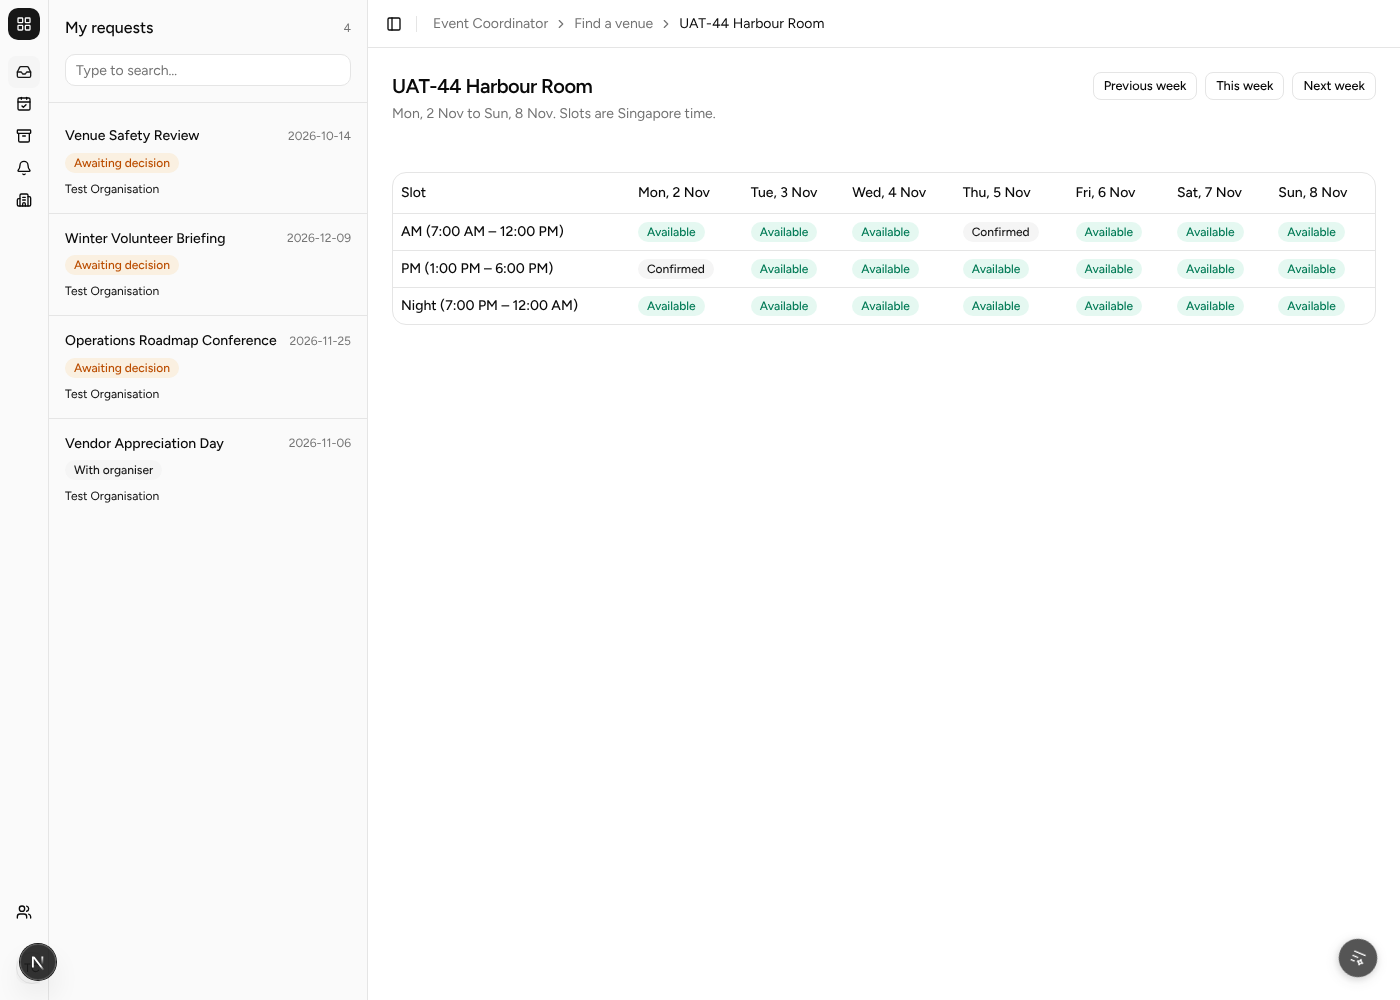
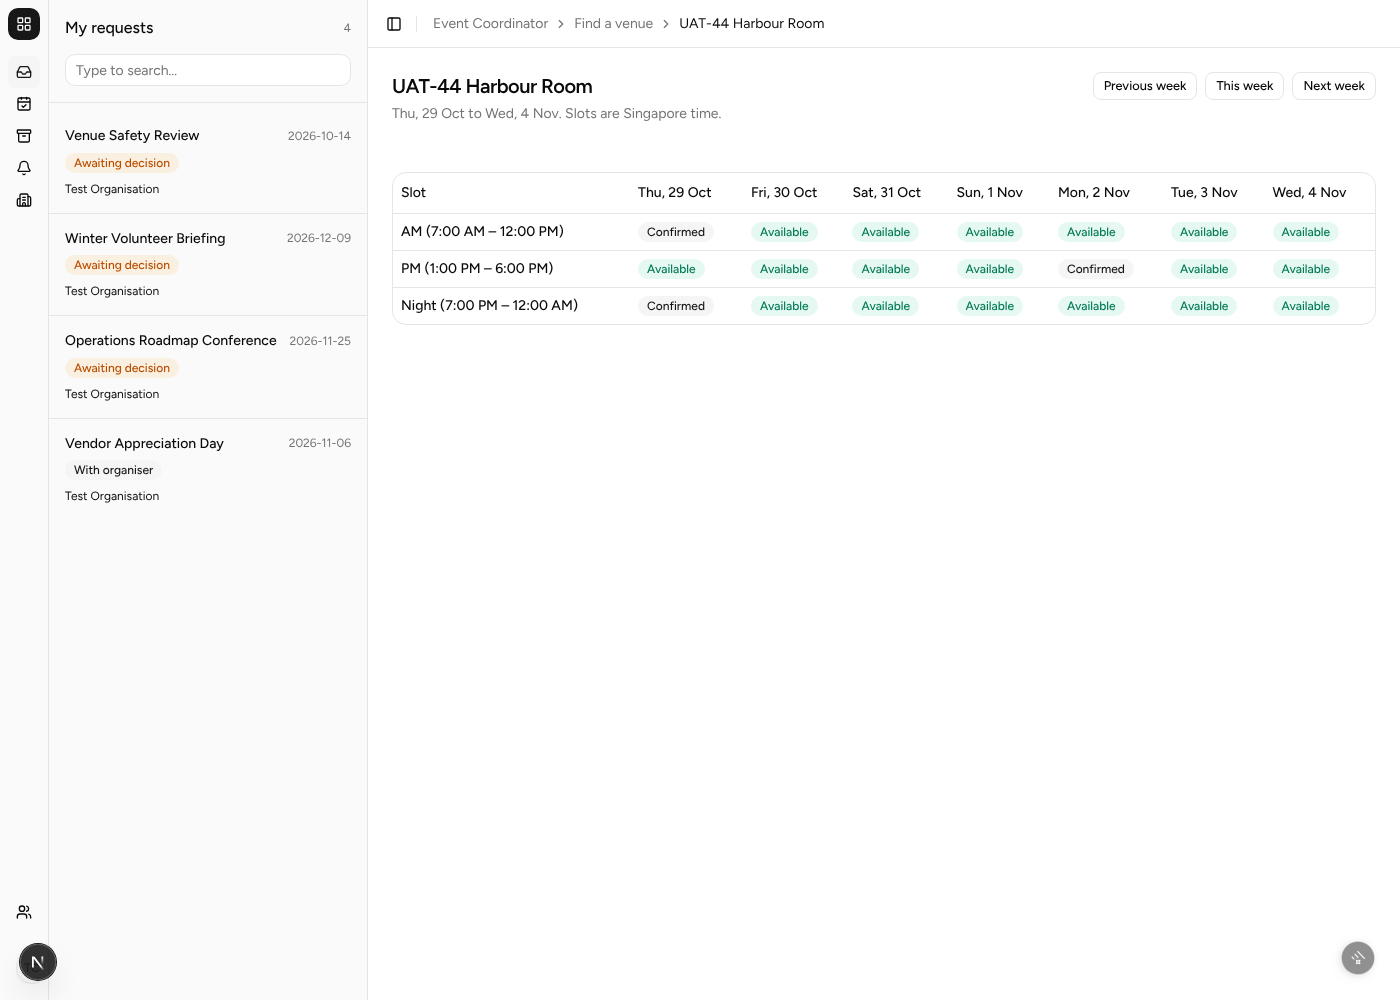
docs(testing): seed the venue booking cancel cases (SPM-20)
The cases borrowed the venue hold fixture and patched a booking by
hand. seed-booking-cancel gives them their own five bookings at the
UAT-44 venues, whose slots the calendar can show as Available, with
verify and teardown like the other seeds. Re-ran the five cases on it.

Claude-Session: https://claude.ai/code/session_01ErKH7SckcPqLq4ja4VJ7Qt

diff --git a/docs/testing/VENUE_BOOKING_CANCEL_MANUAL_TESTS.md b/docs/testing/VENUE_BOOKING_CANCEL_MANUAL_TESTS.md
@@ -41,37 +41,40 @@ Do every step, in this order.
    supabase start
    supabase db reset
    ```
-   Wait for `Finished supabase db reset`, then about 15 seconds.
-2. Load the same data as the venue hold cases ([VENUE_HOLD_MANUAL_TESTS.md](VENUE_HOLD_MANUAL_TESTS.md#setup), steps 2 to 4):
+   Wait for `Finished supabase db reset`, then about 15 seconds. If the next step fails with
+   `relation "public.event" does not exist`, it was not ready yet: wait and run it again.
+2. Load the baseline ([Set up your database](../../scripts/README.md#1-set-up-your-database), Step 2),
+   then the bookings these cases cancel:
    ```bash
    supabase db query --file scripts/seed-coordinator-view/seed.sql --local
    supabase db query --file scripts/seed-venues/seed.sql --local
    supabase db query --file scripts/seed-venue-search-uat/seed.sql --local
    supabase db query --file scripts/seed-equipment/seed.sql --local
-   supabase db query --file scripts/seed-booking-holds/seed.sql --local
-   supabase db query --file scripts/seed-booking-holds/fixture.sql --local
+   supabase db query --file scripts/seed-booking-cancel/seed.sql --local
    ```
-3. Have Venue Staff confirm booking **G**, the UAT-44 Harbour Room request, so there is a Confirmed
-   booking on a slot the venue offers:
+3. Check it loaded. Every row must read `ok = true`:
    ```bash
-   supabase db query --local "update booking set status = 'Confirmed', decided_by_user_account_id = (select ua.user_account_id from user_account ua join auth.users u on u.id = ua.auth_user_id where u.email = 'venue@test.com') where booking_id = (select max(b.booking_id) from booking b join venue v on v.venue_id = b.venue_id where v.location = 'UAT-44 Harbour Room' and b.status = 'Requested')"
+   supabase db query --file scripts/seed-booking-cancel/verify.sql --local
    ```
-4. List the Founders' Gala Dinner's bookings. There must be **9 rows**:
-   ```bash
-   supabase db query --local "select b.booking_id, v.location, bs.slot_date, bs.slot, b.status from booking b join venue v on v.venue_id = b.venue_id join booking_slot bs on bs.booking_id = b.booking_id where b.event_id = (select event_id from event where name = 'Founders'' Gala Dinner') order by b.booking_id"
-   ```
-   In id order they are **A, B, C, X, Y, D, E, F, G**. The cases use these:
-
-   | Booking | Venue | Day, slot | Status |
-   | --- | --- | --- | --- |
-   | A | Studio | T, AM | Requested |
-   | X | Main Hall | T + 2, Night | Confirmed |
-   | G | UAT-44 Harbour Room | T + 3, AM | Confirmed (setup step 3) |
-
-   **T** is 14 days from today, Singapore time.
-5. Start the app with `pnpm dev:local` and sign in at <http://localhost:3000/auth/login> as
+4. Start the app with `pnpm dev:local` and sign in at <http://localhost:3000/auth/login> as
    `coordinator@test.com` (password `TestPass123!`). The booking page is **My events** →
    **Founders' Gala Dinner** → **Request a venue**.
+
+To run the cases again, reset the bookings with `teardown.sql` and then `seed.sql` from
+`scripts/seed-booking-cancel/`.
+
+### The bookings
+
+All five are on the Founders' Gala Dinner. **C** is 10 days from today, Singapore time. The UAT-44
+venues are the ones that offer slots, so their calendar shows a freed slot as **Available**.
+
+| Booking | Venue | Day, slot | Status | Used in |
+| --- | --- | --- | --- | --- |
+| P | UAT-44 Harbour Room | C, AM | Confirmed | cancelled in TC-VCANCEL-001 |
+| Q | UAT-44 Harbour Room | C, Night | Confirmed | kept in 002, cancelled from two tabs in 005 |
+| R | UAT-44 Garden Hall | C, AM | Requested | cancelled in 003 |
+| S | UAT-44 Garden Hall | C, PM | Tentative Hold | cancelled in 003 |
+| U | UAT-44 Harbour Room | C + 1, AM | Rejected | offers no button, 003 |
 
 ---
 
@@ -80,27 +83,27 @@ Do every step, in this order.
 **What this tests:** Cancelling a Confirmed booking makes it **Released**, and the venue calendar
 shows its slot **Available** straight away, so another coordinator can book it.
 
-**Preconditions:** Setup done. Booking G is Confirmed. Signed in as `coordinator@test.com`.
+**Preconditions:** Setup done. Booking P is Confirmed. Signed in as `coordinator@test.com`.
 
 **Steps:**
-1. Open **Find a venue** → **UAT-44 Harbour Room** → its calendar, on the week holding T + 3. Note the AM cell on T + 3.
-2. Open the Founders' Gala Dinner's **Request a venue** page. On booking G's row, click **Cancel booking**.
+1. Open **Find a venue** → **UAT-44 Harbour Room** → its calendar, on the week holding C. Note the AM cell on C.
+2. Open the Founders' Gala Dinner's **Request a venue** page. On booking P's row, click **Cancel booking**.
 3. Click **Yes, cancel booking**.
 4. Open the Harbour Room calendar again, on the same week.
 5. Read the database:
    ```sql
-   select status from booking where booking_id = <booking G>;
-   select actor_user_account_id, field_changed, old_value, new_value from audit_record where entity_type = 'booking' and entity_id = <booking G>;
+   select status from booking where booking_id = <booking P>;
+   select actor_user_account_id, field_changed, old_value, new_value from audit_record where entity_type = 'booking' and entity_id = <booking P>;
    ```
 
 **Expected Result:**
-- Step 1: T + 3 AM reads **Confirmed**.
+- Step 1: C AM reads **Confirmed**.
 - Step 2: the row asks "Release UAT-44 Harbour Room for this event? This cannot be undone." with **Yes, cancel booking** and **Keep booking**.
 - Step 3: a toast reads "Booking at UAT-44 Harbour Room cancelled. Its slots are free again." The row's badge reads **Released**, and it no longer offers **Cancel booking**.
-- Step 4: T + 3 AM reads **Available**.
+- Step 4: C AM reads **Available**.
 - Step 5: `Released`; one audit row by the coordinator, `status`, `Confirmed` → `Released`.
 
-**Status:** [x] Pass [ ] Fail — 19/10/2026, run in Chromium via Playwright against local Supabase
+**Status:** [x] Pass [ ] Fail — 19/10/2026, run in Chromium via Playwright against local Supabase, data from seed-booking-cancel
 
 **Screenshots:** [step1-calendar-confirmed](../screenshots/2026-10-19_TC-VCANCEL-001_step1-calendar-confirmed.png) · [step2-asks-before-cancelling](../screenshots/2026-10-19_TC-VCANCEL-001_step2-asks-before-cancelling.png) · [step3-released](../screenshots/2026-10-19_TC-VCANCEL-001_step3-released.png) · [step4-calendar-available](../screenshots/2026-10-19_TC-VCANCEL-001_step4-calendar-available.png)
 
@@ -111,41 +114,42 @@ shows its slot **Available** straight away, so another coordinator can book it.
 **What this tests:** A cancellation cannot be undone, so the first click only asks. Backing out
 leaves the booking as it was.
 
-**Preconditions:** Setup done. Booking X is Confirmed. Signed in as `coordinator@test.com`.
+**Preconditions:** Setup done. Booking Q is Confirmed. Signed in as `coordinator@test.com`.
 
 **Steps:**
-1. On the **Request a venue** page, on booking X's row, click **Cancel booking**.
+1. On the **Request a venue** page, on booking Q's row, click **Cancel booking**.
 2. Click **Keep booking**.
 3. Reload the page.
 
 **Expected Result:**
 - Step 2: the question closes and **Cancel booking** shows again. No toast.
-- Step 3: booking X still reads **Confirmed**.
+- Step 3: booking Q still reads **Confirmed**.
 
-**Status:** [x] Pass [ ] Fail — 19/10/2026, run in Chromium via Playwright against local Supabase
+**Status:** [x] Pass [ ] Fail — 19/10/2026, run in Chromium via Playwright against local Supabase, data from seed-booking-cancel
 
 **Screenshots:** [step3-still-confirmed](../screenshots/2026-10-19_TC-VCANCEL-002_step3-still-confirmed.png)
 
 ---
 
-### TC-VCANCEL-003: Cancel at any stage: a pending request (AC1)
+### TC-VCANCEL-003: Cancel at any stage: a pending request and a hold (AC1)
 
 **What this tests:** The coordinator can cancel a booking Venue Staff have not answered yet, not
 only a Confirmed one. Bookings that hold nothing offer no button.
 
-**Preconditions:** Setup done. Booking A is Requested. Signed in as `coordinator@test.com`.
+**Preconditions:** After TC-VCANCEL-001. Booking R is Requested and booking S is on a Tentative Hold. Signed in as `coordinator@test.com`.
 
 **Steps:**
 1. On the **Request a venue** page, look at which rows offer **Cancel booking**.
-2. On booking A's row, click **Cancel booking**, then **Yes, cancel booking**.
+2. On booking R's row, click **Cancel booking**, then **Yes, cancel booking**.
+3. Do the same on booking S's row.
 
 **Expected Result:**
-- Step 1: every Requested and Confirmed row offers **Cancel booking**. A Released row (after TC-VCANCEL-001) does not.
-- Step 2: the toast names Studio. Booking A reads **Released** and offers no button.
+- Step 1: Q, R and S offer **Cancel booking**. P (Released in TC-VCANCEL-001) and U (Rejected) do not.
+- Steps 2 and 3: each toast names UAT-44 Garden Hall. R and S read **Released** and offer no button.
 
-**Status:** [x] Pass [ ] Fail — 19/10/2026, run in Chromium via Playwright against local Supabase
+**Status:** [x] Pass [ ] Fail — 19/10/2026, run in Chromium via Playwright against local Supabase, data from seed-booking-cancel
 
-**Screenshots:** [step2-pending-request-released](../screenshots/2026-10-19_TC-VCANCEL-003_step2-pending-request-released.png)
+**Screenshots:** [step3-request-and-hold-released](../screenshots/2026-10-19_TC-VCANCEL-003_step3-request-and-hold-released.png)
 
 ---
 
@@ -163,7 +167,7 @@ one.
 **Expected Result:**
 - Step 1: access is refused (the 403 page). No booking and no **Cancel booking** button is shown.
 
-**Status:** [x] Pass [ ] Fail — 19/10/2026, run in Chromium via Playwright against local Supabase
+**Status:** [x] Pass [ ] Fail — 19/10/2026, run in Chromium via Playwright against local Supabase, data from seed-booking-cancel
 
 **Screenshots:** [step1-refused](../screenshots/2026-10-19_TC-VCANCEL-004_step1-refused.png)
 
@@ -174,18 +178,18 @@ one.
 **What this tests:** If the booking moved on while the page was open, the click is refused and
 nothing changes. The database re-checks the status under a lock.
 
-**Preconditions:** Setup done. Booking X is Confirmed. Signed in as `coordinator@test.com`, with the
+**Preconditions:** Setup done. Booking Q is Confirmed. Signed in as `coordinator@test.com`, with the
 **Request a venue** page open in **two tabs**.
 
 **Steps:**
-1. In tab 1, cancel booking X.
-2. In tab 2, without reloading, click **Cancel booking** on booking X, then **Yes, cancel booking**.
+1. In tab 1, cancel booking Q.
+2. In tab 2, without reloading, click **Cancel booking** on booking Q, then **Yes, cancel booking**.
 3. Reload tab 2.
 
 **Expected Result:**
 - Step 2: the row shows "This booking no longer holds its slots, so there is nothing to cancel." No toast.
-- Step 3: booking X reads **Released**, with one audit row only.
+- Step 3: booking Q reads **Released**, with one audit row only.
 
-**Status:** [x] Pass [ ] Fail — 19/10/2026, run in Chromium via Playwright against local Supabase
+**Status:** [x] Pass [ ] Fail — 19/10/2026, run in Chromium via Playwright against local Supabase, data from seed-booking-cancel
 
 **Screenshots:** [step2-refused](../screenshots/2026-10-19_TC-VCANCEL-005_step2-refused.png)

diff --git a/scripts/README.md b/scripts/README.md
@@ -110,6 +110,7 @@ needs. This table says what that is.
 | Venue booking | `seed-coordinator-view`, `seed-venues`, `seed-equipment`; cases 019, 020 also `seed-booking-holds` |
 | Venue hold | `seed-coordinator-view`, `seed-venues`, `seed-venue-search-uat`, `seed-equipment`, `seed-booking-holds`, then `seed-booking-holds/fixture.sql` (its Setup lists every command) |
 | Venue unavailability | `seed-coordinator-view`, `seed-venues`, `seed-venue-search-uat`, `seed-venue-unavailability` |
+| Venue booking cancel | `seed-coordinator-view`, `seed-venues`, `seed-venue-search-uat`, `seed-equipment`, `seed-booking-cancel` |
 | **Equipment review** | `seed-equipment-review` **only** |
 | **Equipment reserve** | `seed-equipment-reserve` **only** |
 | **Venue search** | `seed-venue-search-uat` **only** |
@@ -158,6 +159,7 @@ local subscribers and notifications stay behind otherwise.
 | `seed-safety-check` | 8 Planning events for the Safety Officer: 4 on the Awaiting check list, 4 one change away from it, with their bookings and lines | The base logins, `seed-venues` | Yes | `seed`, `verify` (29 rows), `teardown` |
 | `seed-venue-unavailability` | 3 venue blocks on Main Hall and Studio | `seed-venues` | Yes | `seed`, `verify` (5 rows), `refusals`, `checks`, `teardown` |
 | `seed-booking-holds` | *Holds Test Event* with 2 Tentative Holds on Main Hall, 21 days from today (one expired, one live). `fixture.sql` adds the nine booking requests the venue hold cases decide on | `seed-venues`; `fixture.sql` also needs `seed-equipment` and `seed-venue-search-uat` | `seed`: yes, replaces its own event. `fixture.sql`: once per reset | `seed`, `fixture`, `teardown` |
+| `seed-booking-cancel` | 5 bookings on the *Founders' Gala Dinner* at the two UAT-44 venues, 10 days from today: two Confirmed, one Requested, one Tentative Hold, one Rejected | `seed-equipment`, `seed-venue-search-uat` | Yes | `seed`, `verify` (7 rows), `teardown` |
 | `apply-ssot` | Nothing: corrects venue and equipment data already there | A database that already has data | Yes | `verify` (31 rows), `apply` |
 
 "Safe to re-run" means it inserts only what is missing, so a row you have since
